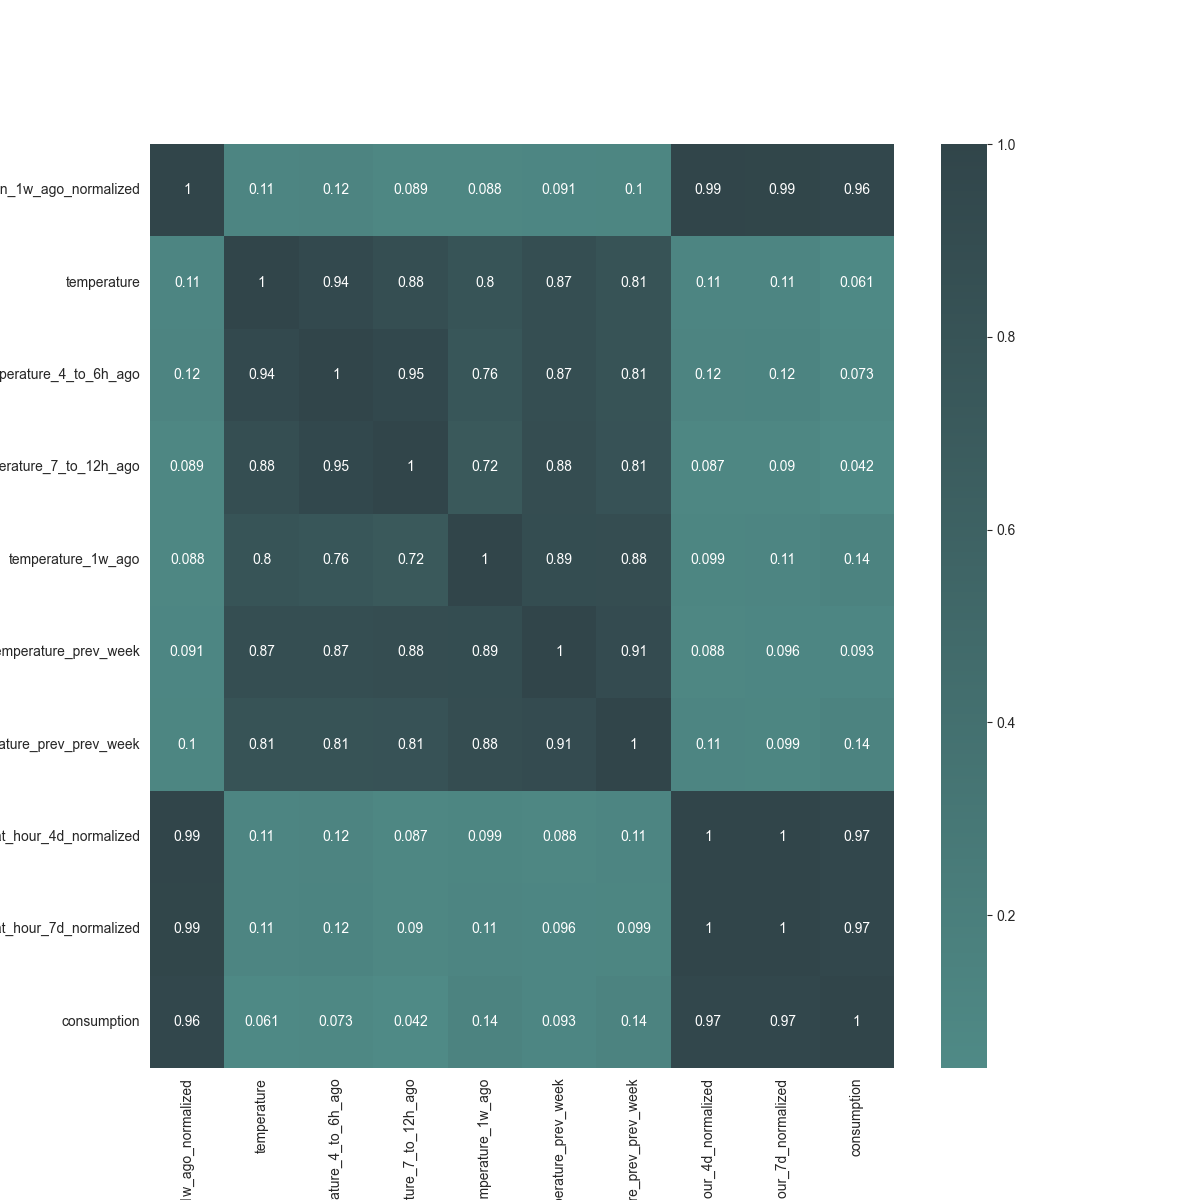
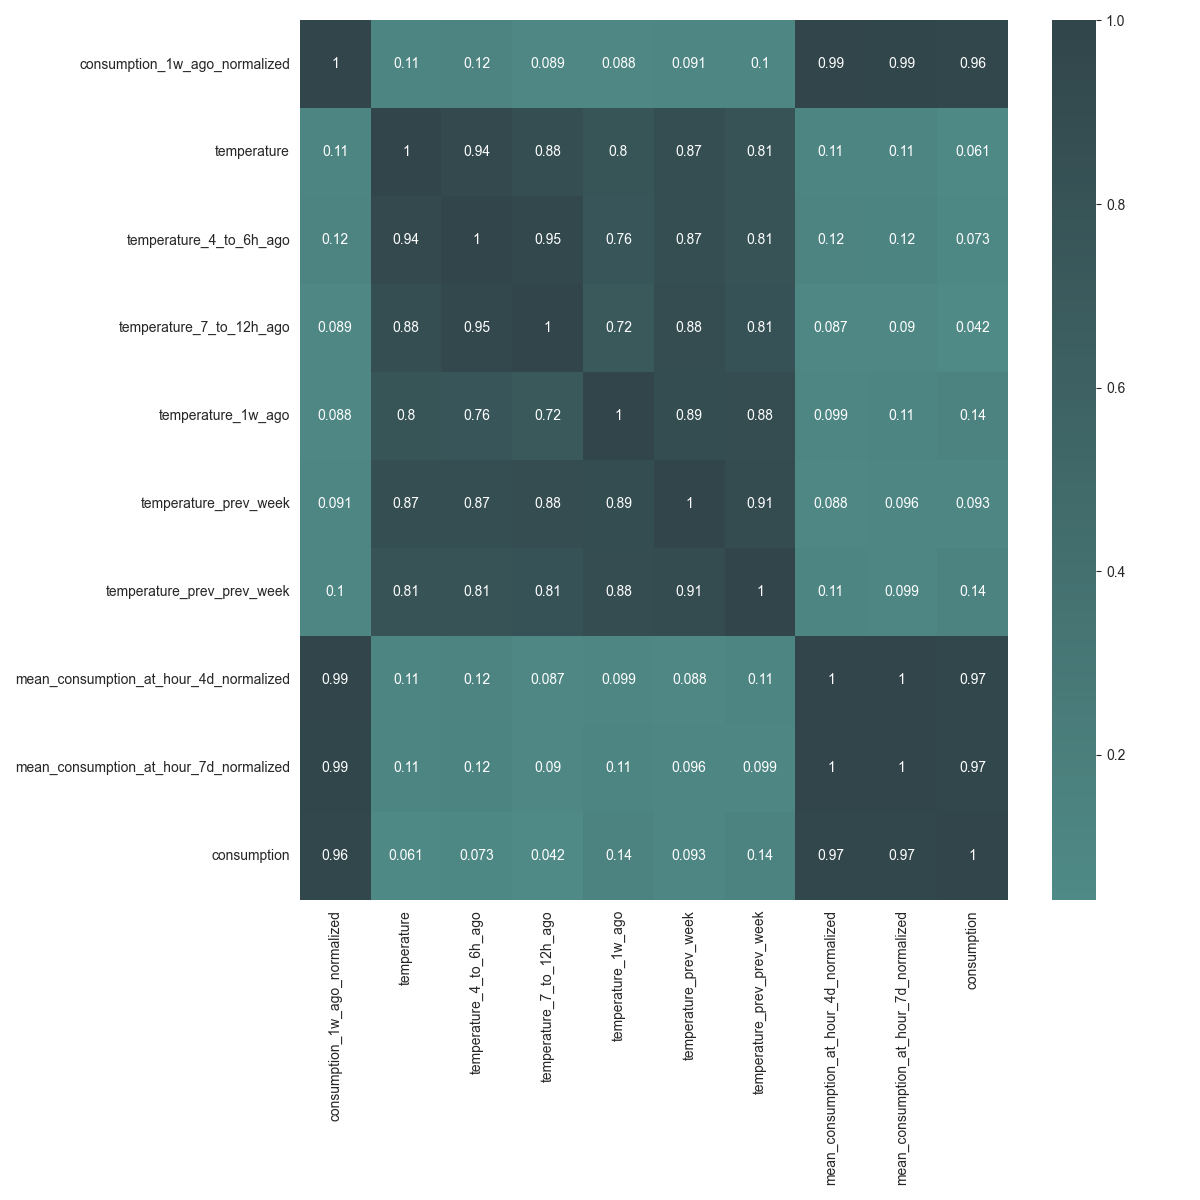
Add unit tests

diff --git a/preprocessing.py b/preprocessing.py
@@ -21,6 +21,101 @@ def read_consumption_data():
     return df
 
 
+def read_holiday_data():
+    """
+    Reads the holiday data from the csv file.
+    Resulting dataframe has columns:
+    - date: datetime, the date of the holiday
+    - event: string, name of the holiday
+    - country: string, country of the holiday
+    """
+    # Read the csv file
+    df = pd.read_csv("data/additional datasets/holidays_2022-2023.csv")
+    # Convert the date column to datetime
+    df["date"] = pd.to_datetime(df["date"]).dt.date
+    # Return the dataframe
+    return df
+
+
+# %%
+def add_time_features(df):
+    df["hour"] = df["time"].dt.strftime("%H")
+    df["season"] = df["time"].dt.month.apply(
+        lambda x: "winter"
+        if x in [12, 1, 2]
+        else "spring"
+        if x in [3, 4, 5]
+        else "summer"
+        if x in [6, 7, 8]
+        else "fall"
+    )
+    df["weekday"] = df["time"].dt.day_name()
+    df["weekend"] = df["weekday"].isin(["Saturday", "Sunday"])
+    return df
+
+
+def normalize_consumption(df, rolling_normalization_window_days):
+    if rolling_normalization_window_days:
+        cumulative_stats = (
+            df.groupby("location")["consumption"]
+            .shift(5 * 24)  # Shift by 5 days to account for lag on receiving data
+            .rolling(rolling_normalization_window_days * 24)
+            .agg(["mean", "std"])
+        )
+    else:
+        cumulative_stats = (
+            df.groupby("location")["consumption"]
+            .shift(5 * 24)  # Shift by 5 days to account for lag on receiving data
+            .expanding()
+            .agg(["mean", "std"])
+        )
+    cumulative_stats["std"].replace(0, 1, inplace=True)
+    df["consumption_normalized"] = (
+        df["consumption"] - cumulative_stats["mean"]
+    ) / cumulative_stats["std"]
+    return df, cumulative_stats
+
+
+def add_temperature_features(df):
+    df["temperature_1h_ago"] = df.groupby("location", observed=True)[
+        "temperature"
+    ].transform(lambda x: x.shift(1))
+    df["temperature_2h_ago"] = df.groupby("location", observed=True)[
+        "temperature"
+    ].transform(lambda x: x.shift(2))
+    df["temperature_3h_ago"] = df.groupby("location", observed=True)[
+        "temperature"
+    ].transform(lambda x: x.shift(3))
+    df["temperature_4_to_6h_ago"] = df.groupby("location", observed=True)[
+        "temperature"
+    ].transform(lambda x: x.shift(4).rolling(3).mean())
+    df["temperature_7_to_12h_ago"] = df.groupby("location", observed=True)[
+        "temperature"
+    ].transform(lambda x: x.shift(7).rolling(6).mean())
+    df["temperature_13_to_24h_ago"] = df.groupby("location", observed=True)[
+        "temperature"
+    ].transform(lambda x: x.shift(13).rolling(12).mean())
+    df["temperature_prev_week"] = df.groupby("location", observed=True)[
+        "temperature"
+    ].transform(lambda x: x.shift(25).rolling(6 * 24).mean())
+    df["temperature_1w_ago"] = df.groupby(
+        ["location", "hour", "weekday"], observed=True
+    )["temperature"].transform(lambda x: x.shift(1))
+    df["temperature_prev_prev_week"] = df.groupby("location", observed=True)[
+        "temperature"
+    ].transform(lambda x: x.shift(6 * 24 + 25).rolling(7 * 24).mean())
+    df["temperature_2w_ago"] = df.groupby(
+        ["location", "hour", "weekday"], observed=True
+    )["temperature"].transform(lambda x: x.shift(2))
+    df["temperature_prev_prev_prev_week"] = df.groupby("location", observed=True)[
+        "temperature"
+    ].transform(lambda x: x.shift(13 * 24 + 25).rolling(7 * 24).mean())
+    df["temperature_3w_ago"] = df.groupby(
+        ["location", "hour", "weekday"], observed=True
+    )["temperature"].transform(lambda x: x.shift(3))
+    return df
+
+
 def preprocess_consumption_data(df: pd.DataFrame, rolling_normalization_window_days=30):
     """
     Preprocesses the consumption data.
@@ -99,20 +194,9 @@ def preprocess_consumption_data(df: pd.DataFrame, rolling_normalization_window_d
 
     # df["days_to_holiday"] = ...
 
-    # Extract the hour, month, season, weekday, and weekend
-    df["hour"] = df["time"].dt.strftime("%H")
-    # df["month"] = df["time"].dt.strftime("%m") # MAPE reduced by removeing feature
-    df["season"] = df["time"].dt.month.apply(
-        lambda x: "winter"
-        if x in [12, 1, 2]
-        else "spring"
-        if x in [3, 4, 5]
-        else "summer"
-        if x in [6, 7, 8]
-        else "fall"
-    )
-    df["weekday"] = df["time"].dt.day_name()
-    df["weekend"] = df["weekday"].isin(["Saturday", "Sunday"])
+    # %%
+    # Extract the time features
+    add_time_features(df)
 
     # %%
     # Extract the location
@@ -120,24 +204,7 @@ def preprocess_consumption_data(df: pd.DataFrame, rolling_normalization_window_d
 
     # %%
     # Normalize consumption using cumulative normalization per location
-    if rolling_normalization_window_days:
-        cumulative_stats = (
-            df.groupby("location", observed=True)["consumption"]
-            .shift(5 * 24)  # Shift by 5 days to account for lag on receiving data
-            .rolling(rolling_normalization_window_days * 24)
-            .agg(["mean", "std"])
-        )
-    else:
-        cumulative_stats = (
-            df.groupby("location", observed=True)["consumption"]
-            .shift(5 * 24)  # Shift by 5 days to account for lag on receiving data
-            .expanding()
-            .agg(["mean", "std"])
-        )
-    cumulative_stats["std"].replace(0, 1, inplace=True)
-    df["consumption_normalized"] = (
-        df["consumption"] - cumulative_stats["mean"]
-    ) / cumulative_stats["std"]
+    df, cumulative_stats = normalize_consumption(df, rolling_normalization_window_days)
 
     # %%
     # Generate consumption features
@@ -166,42 +233,7 @@ def preprocess_consumption_data(df: pd.DataFrame, rolling_normalization_window_d
     ) / cumulative_stats["std"]
 
     # Extract the temperature features
-    df["temperature_1h_ago"] = df.groupby("location", observed=True)[
-        "temperature"
-    ].transform(lambda x: x.shift(1))
-    df["temperature_2h_ago"] = df.groupby("location", observed=True)[
-        "temperature"
-    ].transform(lambda x: x.shift(2))
-    df["temperature_3h_ago"] = df.groupby("location", observed=True)[
-        "temperature"
-    ].transform(lambda x: x.shift(3))
-    df["temperature_4_to_6h_ago"] = df.groupby("location", observed=True)[
-        "temperature"
-    ].transform(lambda x: x.shift(4).rolling(3).mean())
-    df["temperature_7_to_12h_ago"] = df.groupby("location", observed=True)[
-        "temperature"
-    ].transform(lambda x: x.shift(7).rolling(6).mean())
-    df["temperature_13_to_24h_ago"] = df.groupby("location", observed=True)[
-        "temperature"
-    ].transform(lambda x: x.shift(13).rolling(12).mean())
-    df["temperature_prev_week"] = df.groupby("location", observed=True)[
-        "temperature"
-    ].transform(lambda x: x.shift(25).rolling(6 * 24).mean())
-    df["temperature_1w_ago"] = df.groupby(
-        ["location", "hour", "weekday"], observed=True
-    )["temperature"].transform(lambda x: x.shift(1))
-    df["temperature_prev_prev_week"] = df.groupby("location", observed=True)[
-        "temperature"
-    ].transform(lambda x: x.shift(6 * 24 + 25).rolling(7 * 24).mean())
-    df["temperature_2w_ago"] = df.groupby(
-        ["location", "hour", "weekday"], observed=True
-    )["temperature"].transform(lambda x: x.shift(2))
-    df["temperature_prev_prev_prev_week"] = df.groupby("location", observed=True)[
-        "temperature"
-    ].transform(lambda x: x.shift(13 * 24 + 25).rolling(7 * 24).mean())
-    df["temperature_3w_ago"] = df.groupby(
-        ["location", "hour", "weekday"], observed=True
-    )["temperature"].transform(lambda x: x.shift(3))
+    df = add_temperature_features(df)
 
     # Some rows have NaN because of the lookback features, but since there are so few,
     # we drop them
@@ -213,24 +245,3 @@ def preprocess_consumption_data(df: pd.DataFrame, rolling_normalization_window_d
 
     # %%
     return df
-
-
-def read_holiday_data():
-    """
-    Reads the holiday data from the csv file.
-    Resulting dataframe has columns:
-    - date: datetime, the date of the holiday
-    - event: string, name of the holiday
-    - country: string, country of the holiday
-    """
-    # Read the csv file
-    df = pd.read_csv("data/additional datasets/holidays_2022-2023.csv")
-    # Convert the date column to datetime
-    df["date"] = pd.to_datetime(df["date"]).dt.date
-    # Return the dataframe
-    return df
-
-
-df = read_consumption_data()
-
-preprocess_consumption_data(df)

diff --git a/preprocessing.test.py b/preprocessing.test.py
@@ -1,0 +1,48 @@
+import pandas as pd
+import unittest
+from preprocessing import (
+    add_time_features,
+    normalize_consumption,
+    add_temperature_features,
+    read_consumption_data,
+)
+
+
+class TestPreprocessingFunctions(unittest.TestCase):
+    def setUp(self):
+        self.df = read_consumption_data()
+
+    def test_add_time_features(self):
+        df = add_time_features(self.df.copy())
+        assert "hour" in df.columns
+        assert "season" in df.columns
+        assert "weekday" in df.columns
+        assert "weekend" in df.columns
+
+    def test_normalize_consumption(self):
+        df, _ = normalize_consumption(self.df.copy(), None)
+        assert "consumption_normalized" in df.columns
+        assert df["consumption_normalized"].isna().sum() < df.shape[0] / 10
+
+    def test_add_temperature_features(self):
+        df = add_temperature_features(add_time_features(self.df.copy()))
+        for feature in [
+            "temperature_1h_ago",
+            "temperature_2h_ago",
+            "temperature_3h_ago",
+            "temperature_4_to_6h_ago",
+            "temperature_7_to_12h_ago",
+            "temperature_13_to_24h_ago",
+            "temperature_prev_week",
+            "temperature_1w_ago",
+            "temperature_prev_prev_week",
+            "temperature_2w_ago",
+            "temperature_prev_prev_prev_week",
+            "temperature_3w_ago",
+        ]:
+            assert feature in df.columns
+            assert df[feature].isna().sum() < df.shape[0] / 10
+
+
+if __name__ == "__main__":
+    unittest.main()

diff --git a/analysis.py b/analysis.py
@@ -500,6 +500,7 @@ cmap = matplotlib.colors.LinearSegmentedColormap.from_list(
     ],
 )
 sns.heatmap(corr, annot=True, cmap=cmap)
+plt.tight_layout()
 plt.savefig("analysis/correlation.png")
 plt.show()
 
